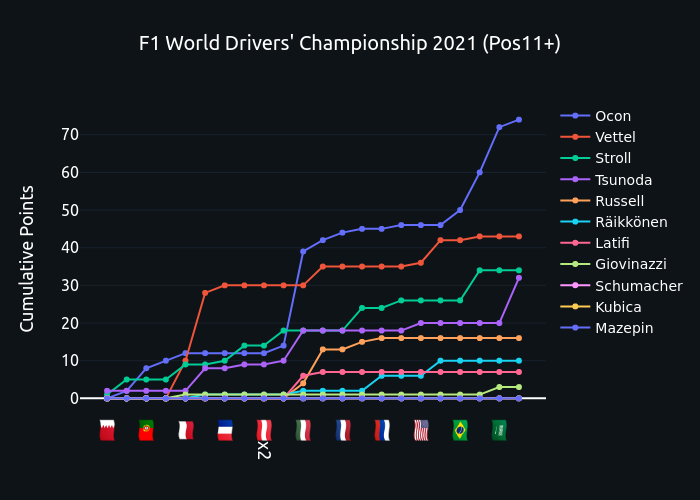
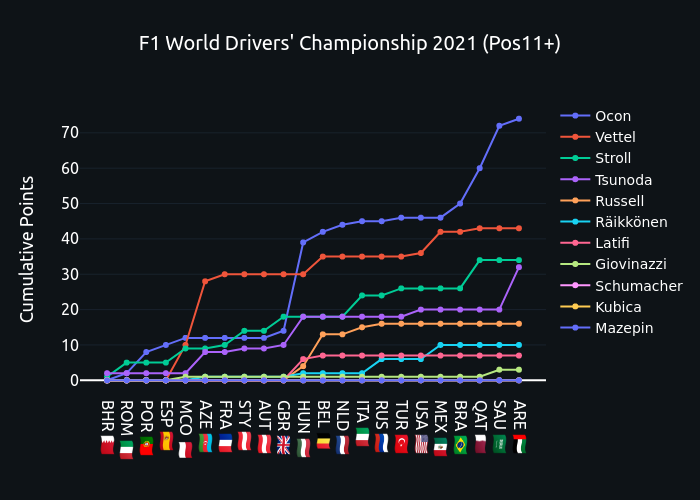
change x axis to country code and flag

diff --git a/scripts/wdc.py b/scripts/wdc.py
@@ -5,7 +5,7 @@ import pandas as pd
 def plot_wdc(df, title_type="full"):
     """Create a plotly chart of cumulative points for F1WDC"""
     flags1 = ["🇧🇭", "🇮🇹", "🇵🇹", "🇪🇸", "🇲🇨", "🇦🇿", "🇫🇷", "🇦🇹"]
-    flags2 = ["🇦🇹x2", "🇬🇧", "🇭🇺", "🇧🇪", "🇳🇱", "🇮🇹x2", "🇷🇺", "🇹🇷"]
+    flags2 = ["🇦🇹", "🇬🇧", "🇭🇺", "🇧🇪", "🇳🇱", "🇮🇹", "🇷🇺", "🇹🇷"]
     flags3 = ["🇺🇸", "🇲🇽", "🇧🇷", "🇶🇦", "🇸🇦", "🇦🇪"]
     flags = flags1 + flags2 + flags3
 
@@ -14,7 +14,7 @@ def plot_wdc(df, title_type="full"):
     for driver in df.index:
         fig.add_trace(
             go.Scatter(
-                x=flags,
+                x=[" ".join(z) for z in zip(df.columns, flags)],
                 y=df.loc[driver],
                 mode="lines+markers",
                 name=driver,
@@ -34,7 +34,7 @@ def plot_wdc(df, title_type="full"):
             text="",
             font=dict(family="Ubuntu", size=18, color="white"),
         ),
-        tickfont=dict(family="Ubuntu", size=18, color="white"),
+        tickfont=dict(family="Ubuntu", size=16, color="white"),
         tickangle=90,
     )
     fig.update_yaxes(
@@ -74,13 +74,13 @@ if __name__ == "__main__":
     df = pd.read_csv("data/wdc_points2.csv", index_col=0)
     # all drivers
     fig = plot_wdc(df)
-    fig.write_image("plots/json/f1wdc2021.png")
+    fig.write_image("plots/png/f1wdc2021.png")
     fig.write_json("plots/json/f1wdc2021.json")
     # top 10 drivers
     fig = plot_wdc(df.iloc[:10], title_type="top10")
-    fig.write_image("plots/json/f1wdc2021-top10.png")
+    fig.write_image("plots/png/f1wdc2021-top10.png")
     fig.write_json("plots/json/f1wdc2021-top10.json")
     # rest
     fig = plot_wdc(df.iloc[10:], title_type="rest")
-    fig.write_image("plots/json/f1wdc2021-rest.png")
+    fig.write_image("plots/png/f1wdc2021-rest.png")
     fig.write_json("plots/json/f1wdc2021-rest.json")
